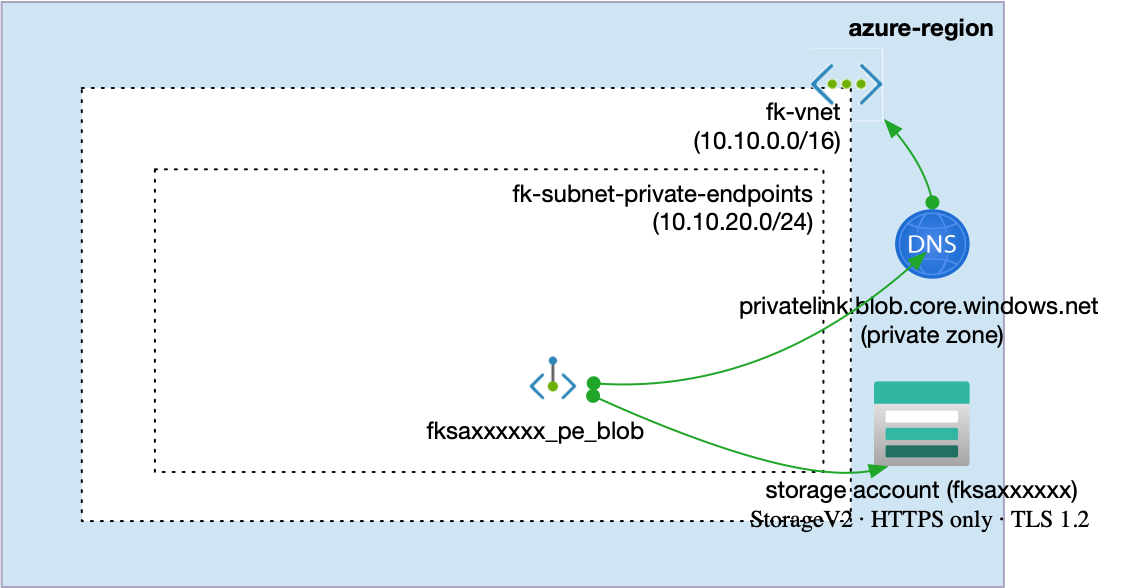
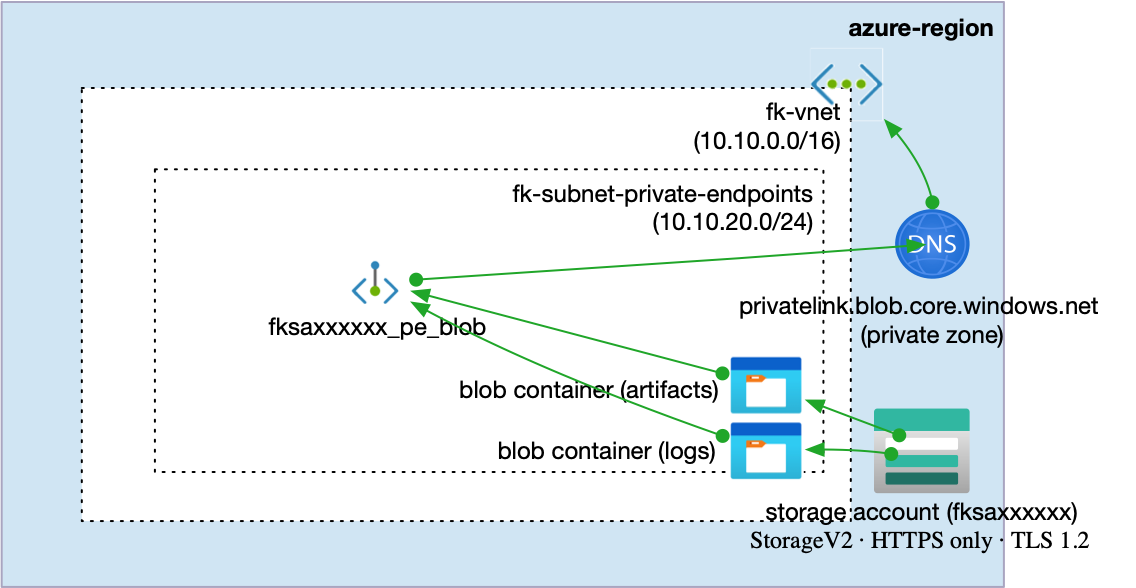
Fixes for 05

diff --git a/examples/05_private_endpoint_blob/README.md b/examples/05_private_endpoint_blob/README.md
@@ -1,43 +1,39 @@
 # Example 05: Blob Private Endpoint (Private Access + DNS)
 
 In this storage example, we move from **restricted public access**
-to **fully private connectivity** by introducing a **Private Endpoint for Blob Storage**
+to **private connectivity** by introducing a **Private Endpoint for Azure Blob Storage**
 using **Terraform / OpenTofu**.
 
-This example focuses purely on **private network access and DNS resolution**:
-no Blob Containers, no File Shares, no Network Rules, no compute resources.
+This example focuses on **private network access and DNS resolution**
+while still defining **data intent** through Blob Containers.
 
-Its purpose is to demonstrate how a Storage Account can be accessed
-**exclusively through a private IP inside a Virtual Network**,
-with the public endpoint disabled.
+No compute resources are attached.
 
 ---
 
 ## 🧭 Architecture Overview
 
 This deployment creates a single **Azure Storage Account**
-exposed **only through a Private Endpoint** for the Blob service.
+exposed through a **Private Endpoint** for the Blob service,
+with private name resolution handled by **Azure Private DNS**.
 
-The public endpoint is disabled.
-All traffic flows through the Azure backbone using a private IP
-and is resolved via a **Private DNS Zone**.
+Blob Containers are created to represent **intended data usage**
+(e.g. artifacts and logs), even though no consumers are attached yet.
 
 <img src="05-private-endpoint-blob-architecture.png" width="900"/>
 
 This example creates:
 - One **Azure Storage Account (StorageV2)**
+- Two **private Blob Containers** (e.g. `artifacts`, `logs`)
 - One **Private Endpoint** for the **Blob** subresource
 - One **Private DNS Zone** (`privatelink.blob.core.windows.net`)
 - A **VNet link** for private DNS resolution
 - HTTPS-only access
 - Minimum TLS version enforced
-- No public network access
-- No Blob Containers
-- No File Shares
-- No Network Rules
+- Network Rules with `default_action = Deny`
 - No compute resources
 
-This is a **private connectivity baseline**, not a complete production deployment.
+This is a **private storage baseline**, not a complete production deployment.
 
 ---
 
@@ -47,19 +43,36 @@ After understanding:
 - public endpoints with restricted access (Example 04),
 - network rules as a first security boundary,
 
-the next logical step is to **remove the public surface entirely**.
+the next logical step is to **introduce private connectivity**
+and remove the public storage surface from the data path.
 
 Private Endpoints provide:
 - private IP-based access to PaaS services,
 - traffic that never leaves the Azure backbone,
-- integration with Virtual Networks and DNS.
+- native integration with Virtual Networks and DNS.
 
 This example focuses on:
-- Understanding how Private Endpoints change the access model
+- Understanding how Blob Storage behaves when exposed privately
 - Seeing the role of Private DNS Zones in name resolution
-- Establishing a clean mental model before adding compute consumers
+- Defining storage **before** workloads exist
 
-Integration with Virtual Machines or AKS is introduced in later examples.
+Blob Containers are created to define **data intent**, not consumption.
+
+Integration with compute services (VMs, AKS, CI/CD pipelines)
+is introduced in later examples.
+
+---
+
+## 🔐 About Network Rules in this example
+
+Network Rules are enabled to:
+- keep the storage account locked down (`default_action = Deny`),
+- allow Terraform provisioning from a trusted source,
+- preserve a deterministic deployment experience without compute resources.
+
+In fully private environments, data-plane provisioning
+would typically run from within the Virtual Network
+(e.g. via a private runner).
 
 ---
 
@@ -79,7 +92,8 @@ tofu apply
 
 <img src="05-private-endpoint-blob-portal-overview.png" width="900"/>
 
-*Figure 1. Azure Blob Storage exposed exclusively via a Private Endpoint using Terraform/OpenTofu.*
+*Figure 1. Azure Blob Storage with private connectivity, Private DNS resolution,
+and predefined Blob Containers.*
 
 ---
 
